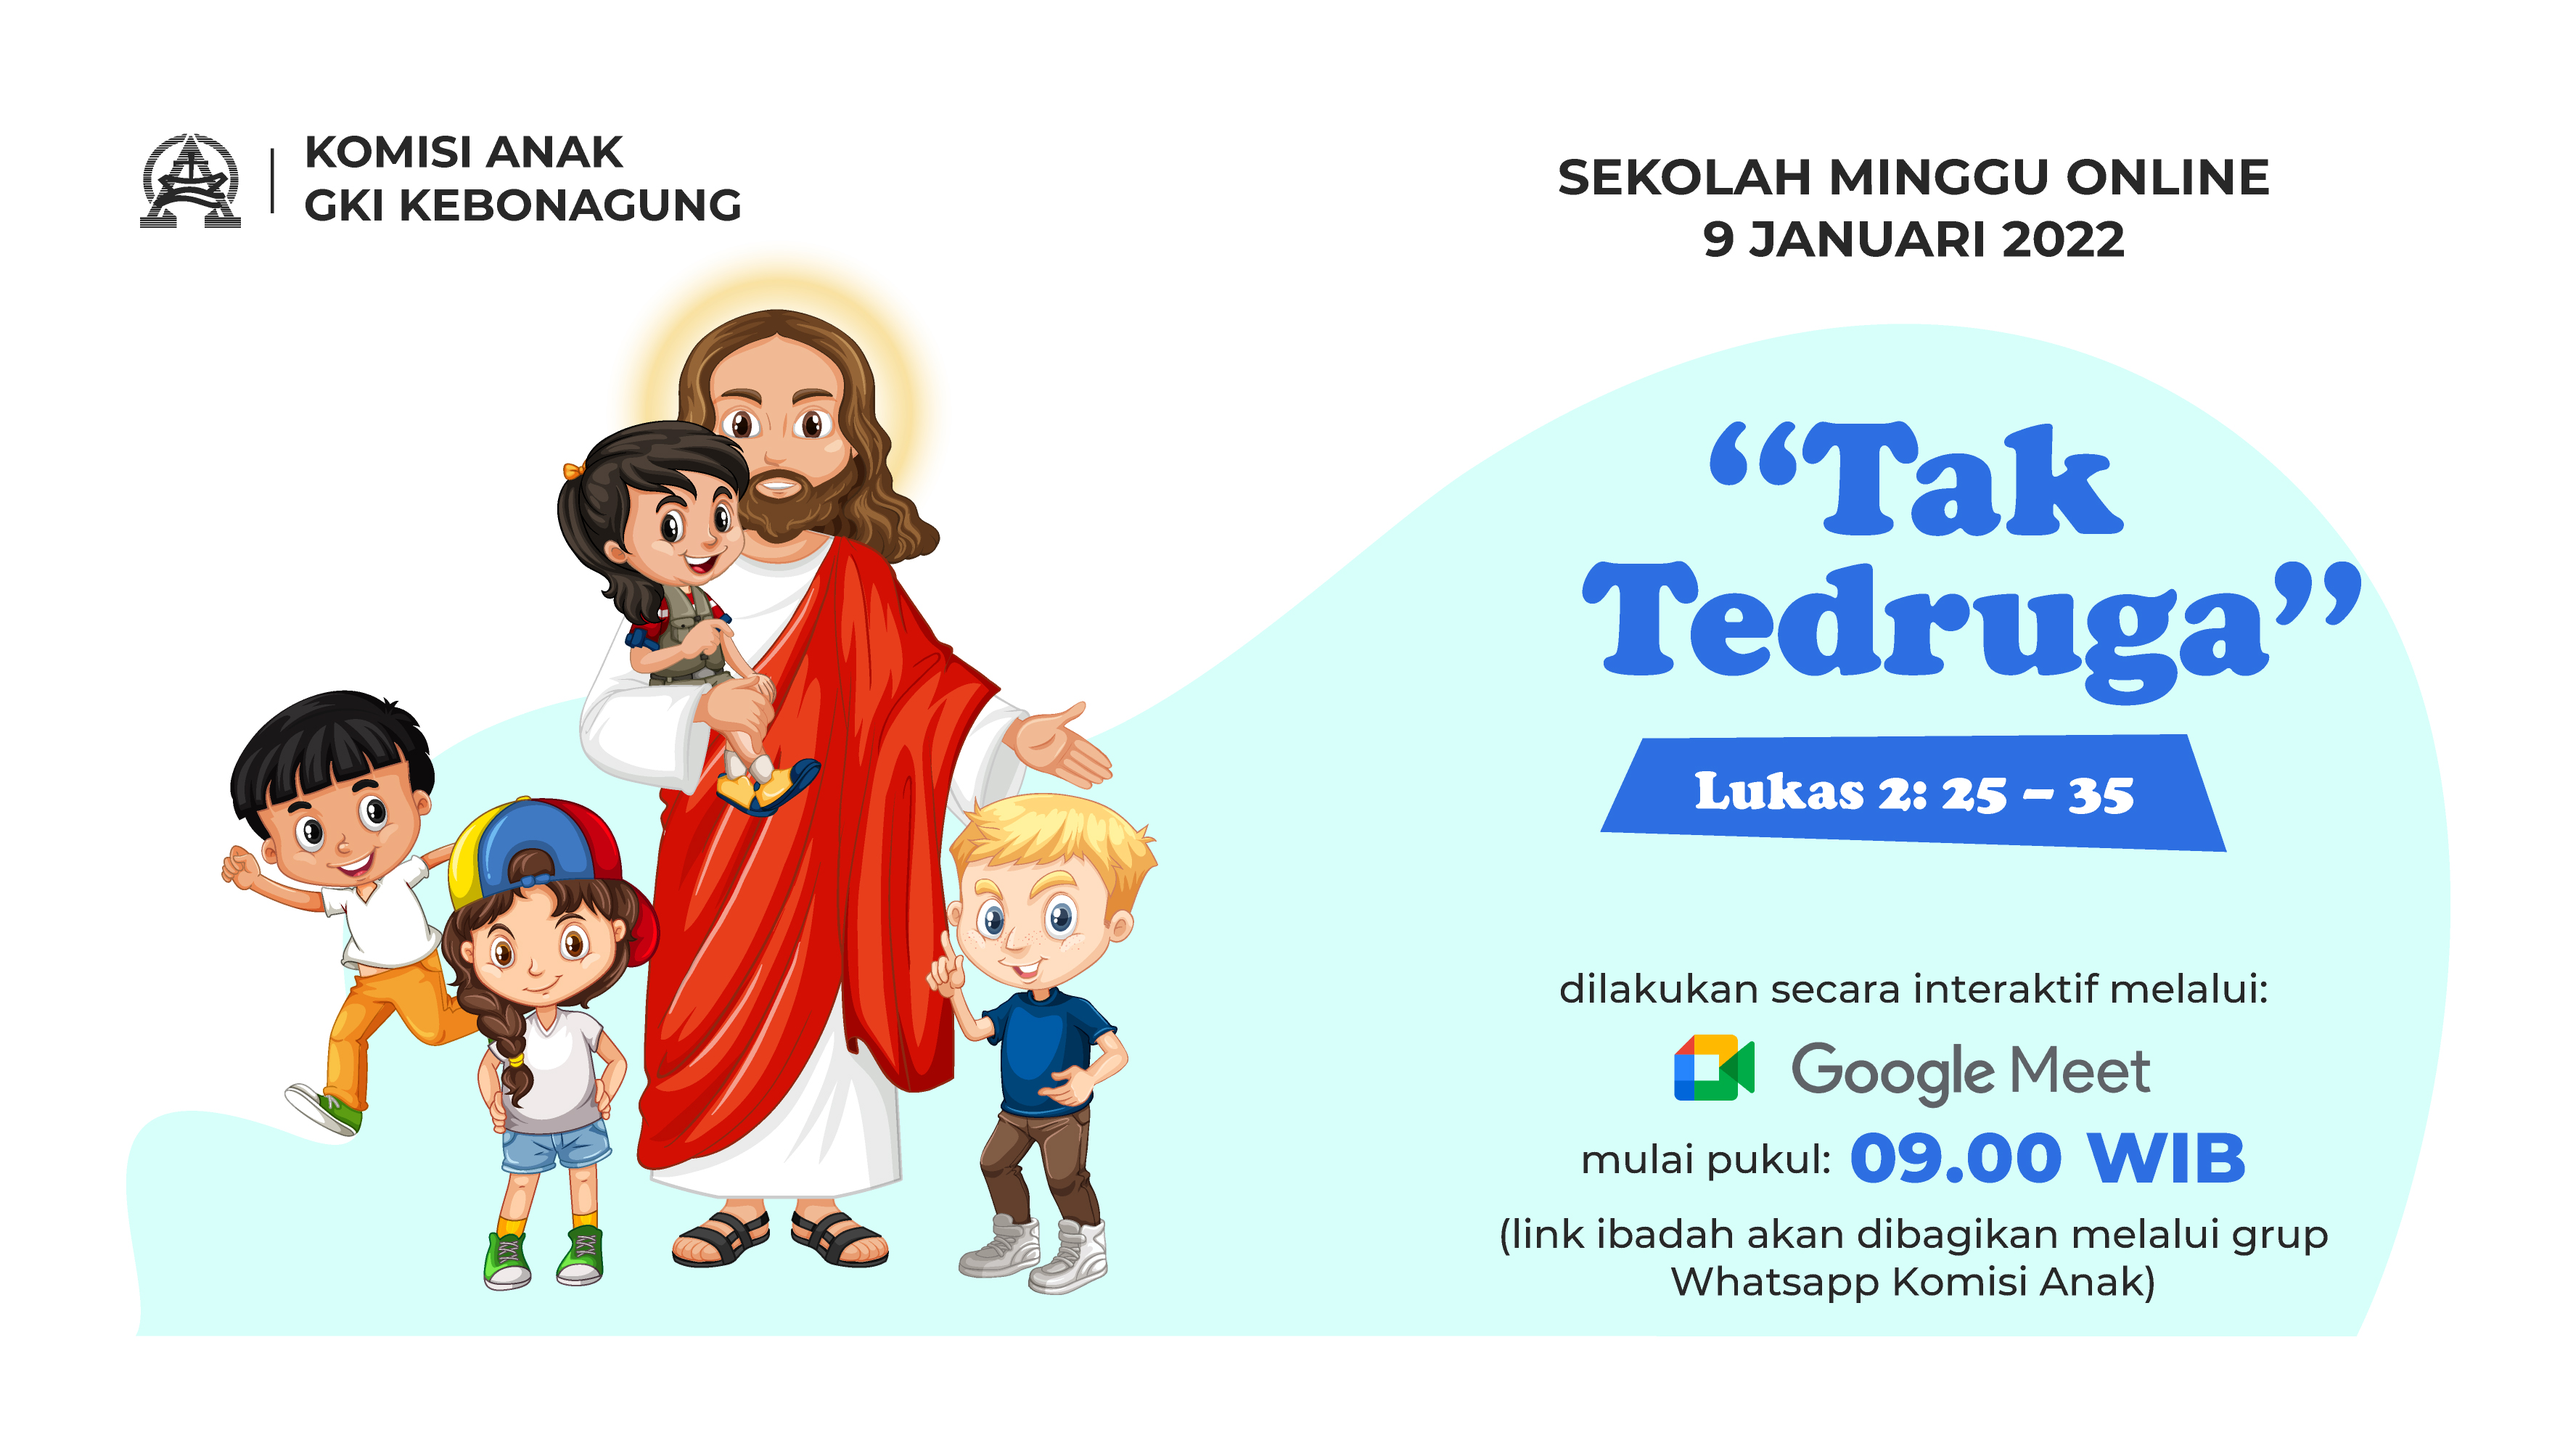
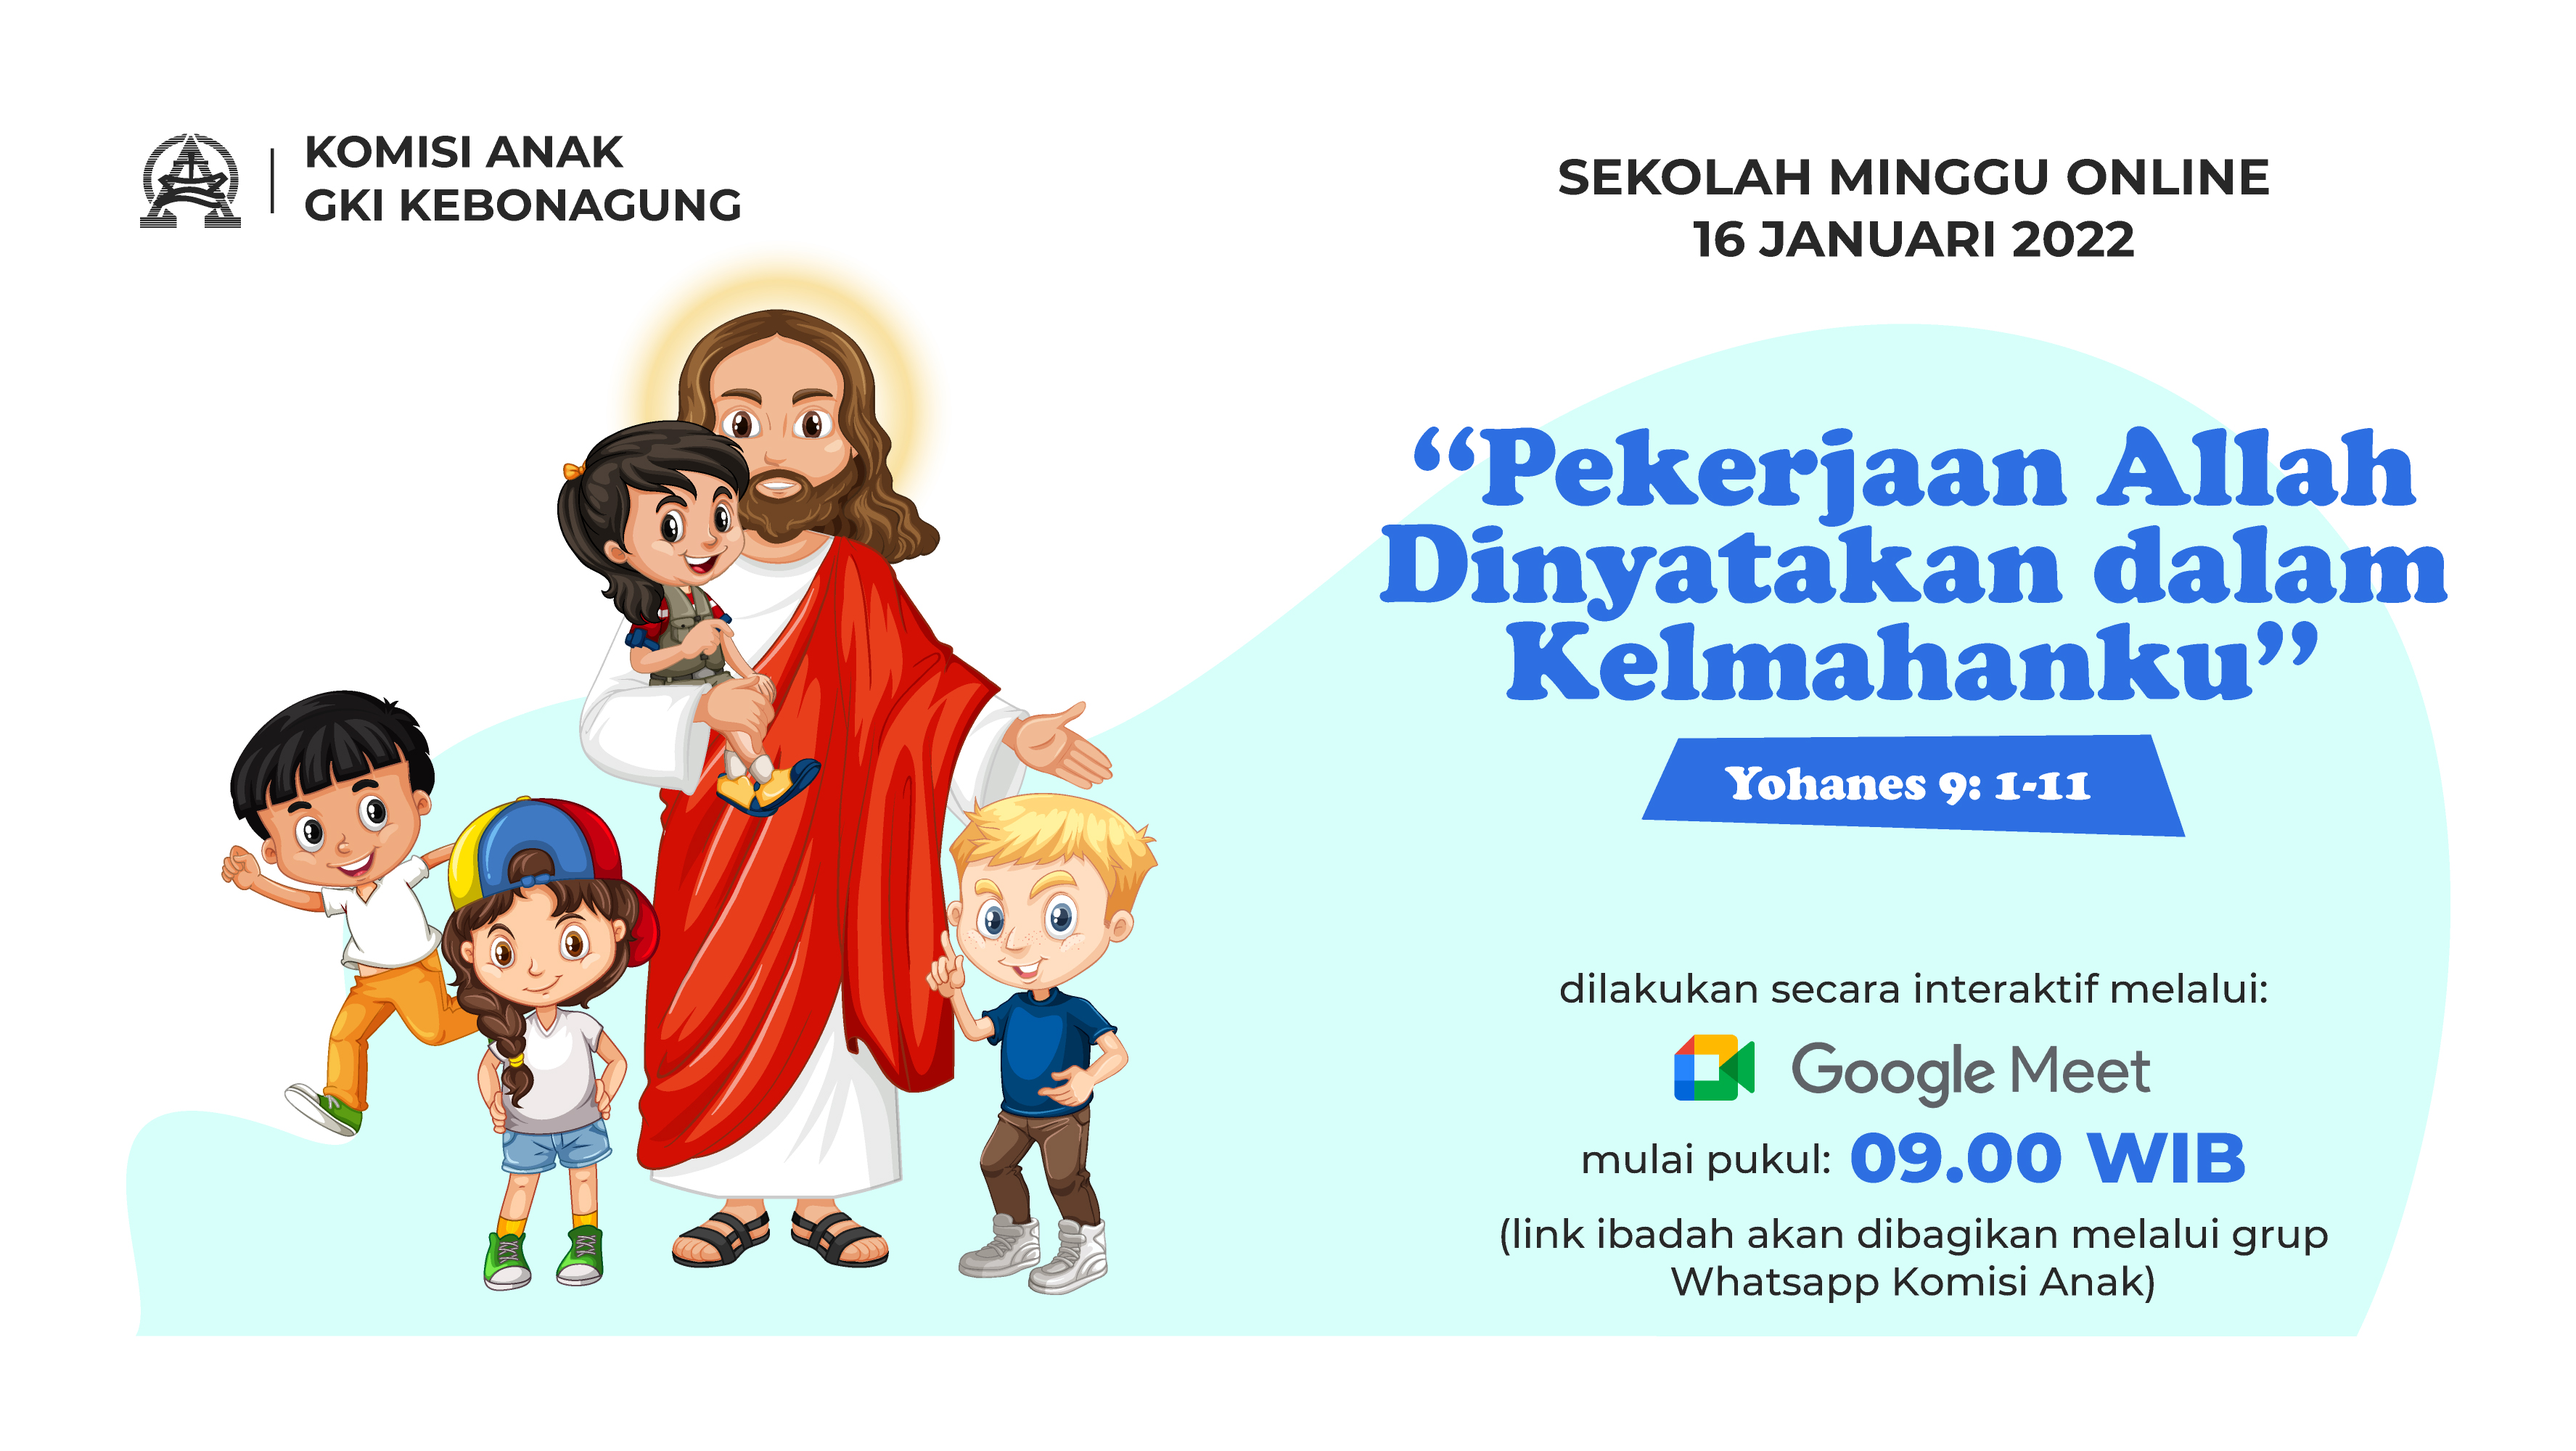
1

Changed region(s): [[0.5268, 0.279, 0.9606, 0.589], [0.6507, 0.155, 0.8366, 0.186]]

diff --git a/application/views/Front/vLandingpage.php b/application/views/Front/vLandingpage.php
@@ -109,7 +109,7 @@
                         </div>
                     </div>
                 </div>
-                <div class="col-lg-4 text-center d-none">
+                <div class="col-lg-4 text-center">
                     <div class="mt-5">
                         <div class="card text-center shadow mx-3">
                             <!-- UBAH -->
@@ -119,7 +119,7 @@
                             <div class="card-body">
                                 <h4 class="card-title">Sekolah Minggu</h4>
                                 <!-- UBAH -->
-                                <p class="card-text">"Tak Terduga"<br>Minggu, 9 Januari 2022 - 09.00 WIB<br>Kak Lia dan Bu Endang</p>
+                                <p class="card-text">"Pekerjaan Allah Dinyatakan dalam Kelemahanku"<br>Minggu, 16 Januari 2022 - 09.00 WIB<br>Kak Brina dan Pak Wahyu</p>
                             </div>
                             <div class="card-body">
                                 <!-- UBAH -->
